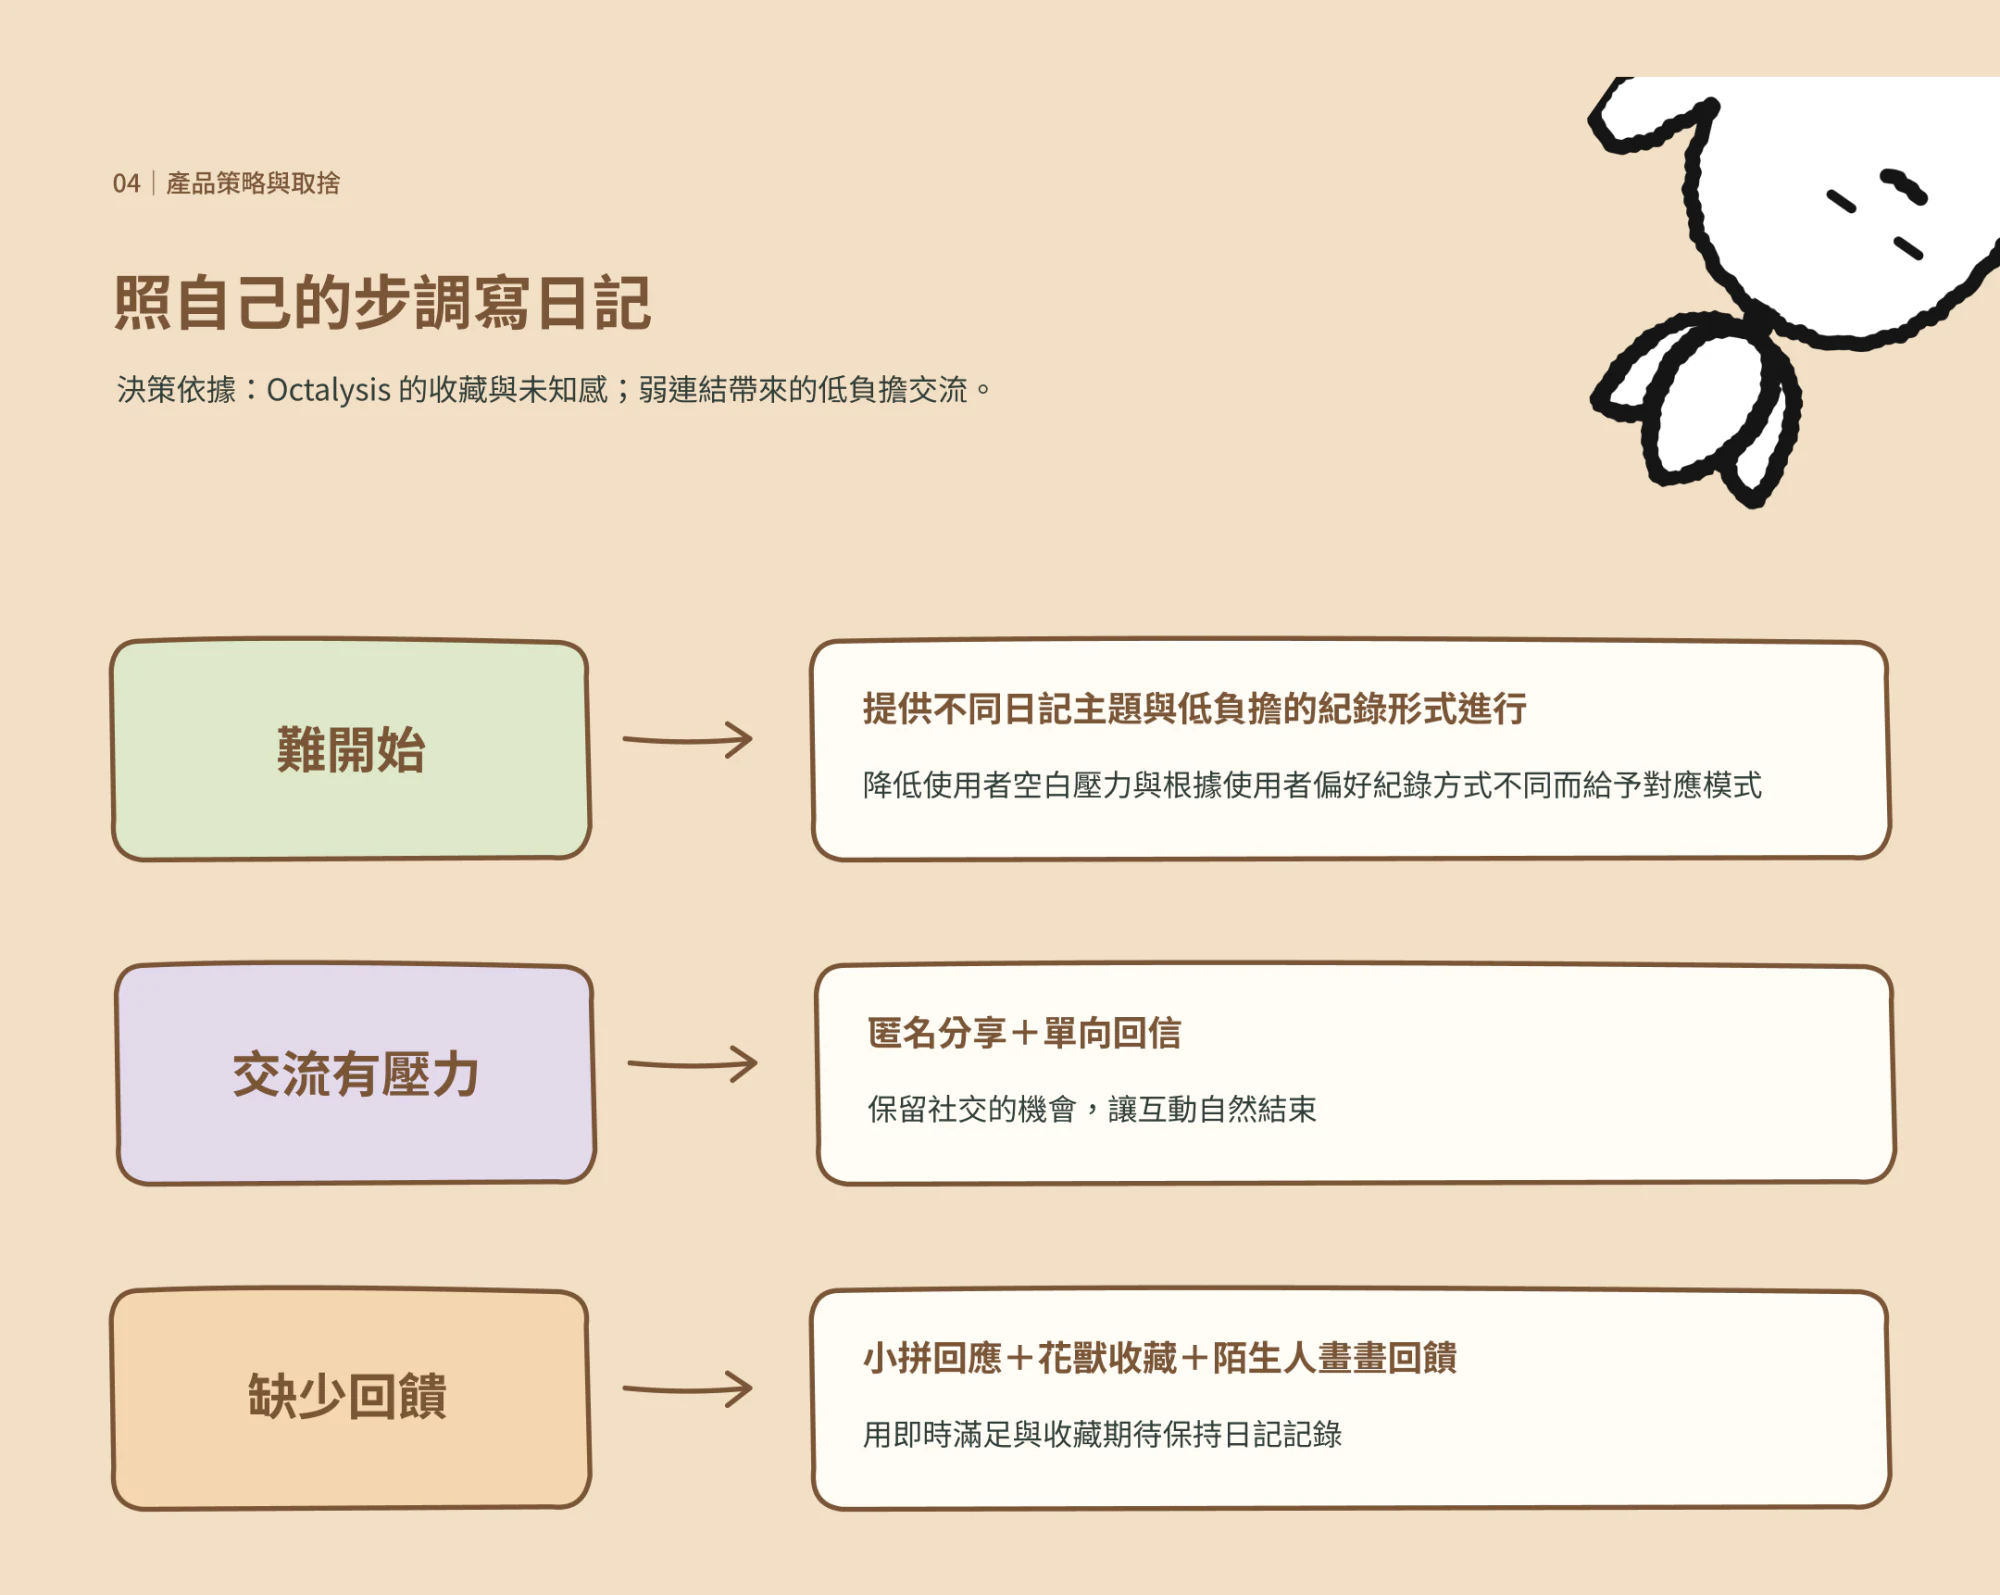
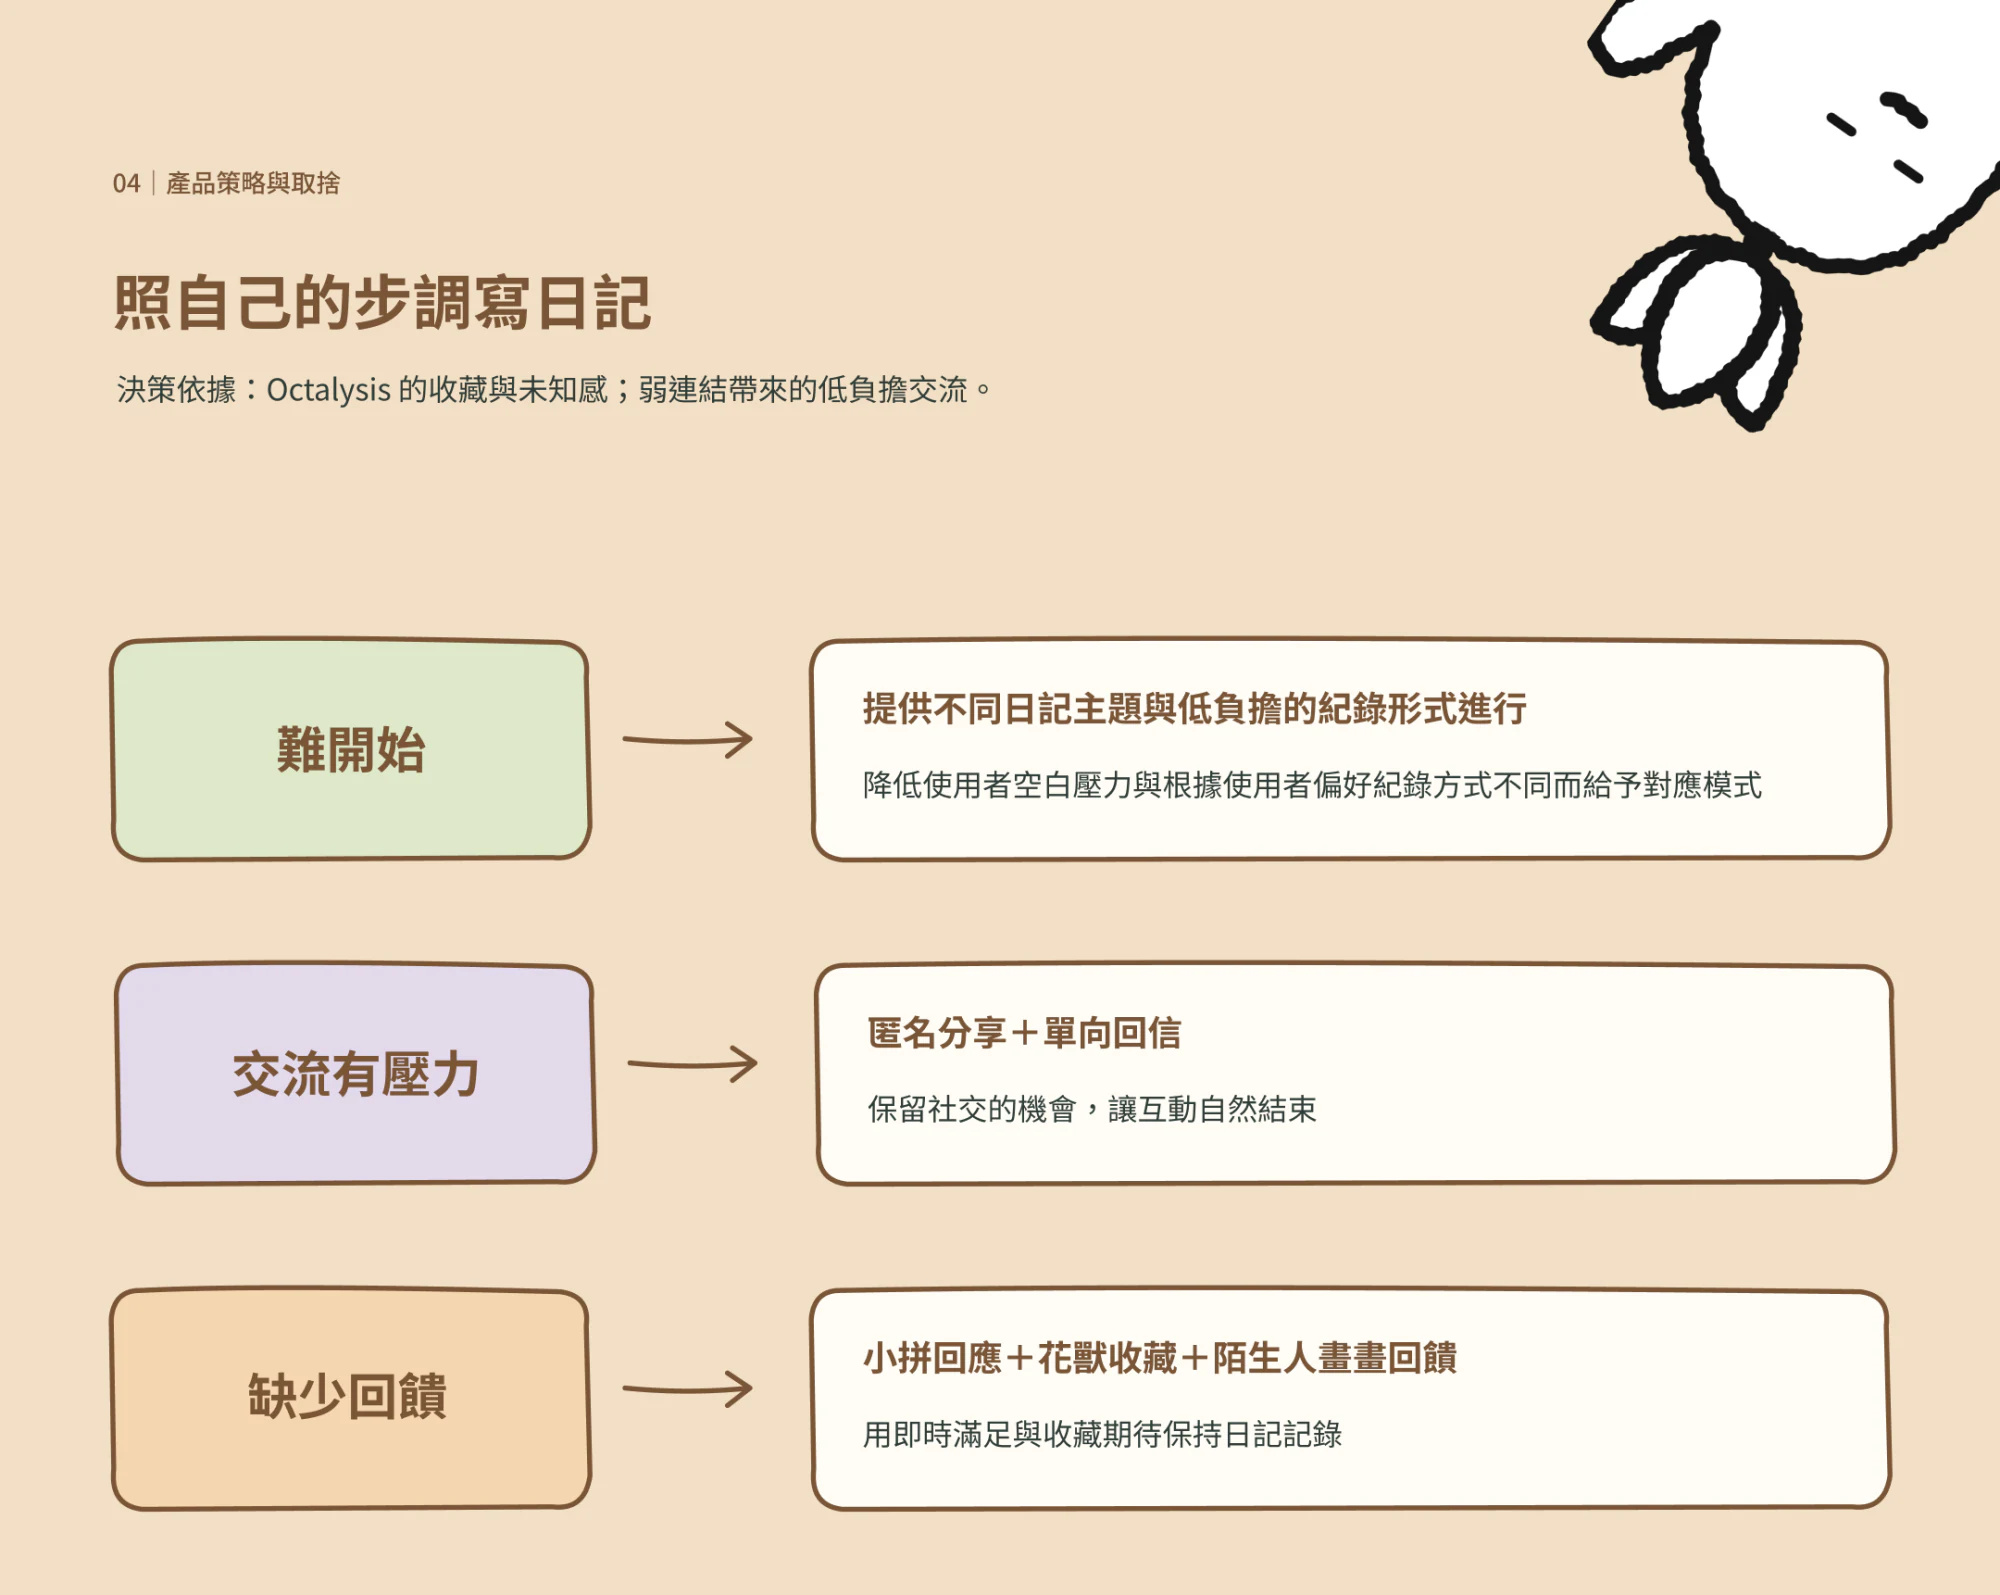
拼拼第 04 頁換新版（花獸不再被上緣切平）

Changed region(s): [[0.775, 0.0, 1.0, 0.3379]]

diff --git a/src/data/gallery.ts b/src/data/gallery.ts
@@ -111,7 +111,7 @@ export const categories: GalleryCategory[] = [
           { page: "01", title: "專案概覽", src: img("pinpin/pinpin-01.mp4?v=6"), kind: "video", size: [1080, 982] },
           { page: "02", title: "競品研究與取捨", src: img("pinpin/pinpin-02.webp?v=6"), kind: "image", size: [2000, 1658] },
           { page: "03", title: "使用情境與問題定義", src: img("pinpin/pinpin-03.webp?v=6"), kind: "image", size: [2000, 1495] },
-          { page: "04", title: "產品策略與取捨", src: img("pinpin/pinpin-04.webp?v=6"), kind: "image", size: [2000, 1595] },
+          { page: "04", title: "產品策略與取捨", src: img("pinpin/pinpin-04.webp?v=7"), kind: "image", size: [2000, 1595] },
           { page: "05", title: "兩條回訪路徑", src: img("pinpin/pinpin-05.webp?v=6"), kind: "image", size: [2000, 1682] },
           { page: "06", title: "適時引導", src: img("pinpin/pinpin-06.webp?v=6"), kind: "image", size: [2000, 1339] },
           { page: "07", title: "兩種表達方式", src: img("pinpin/pinpin-07.mp4?v=6"), kind: "video", size: [1080, 908] },
